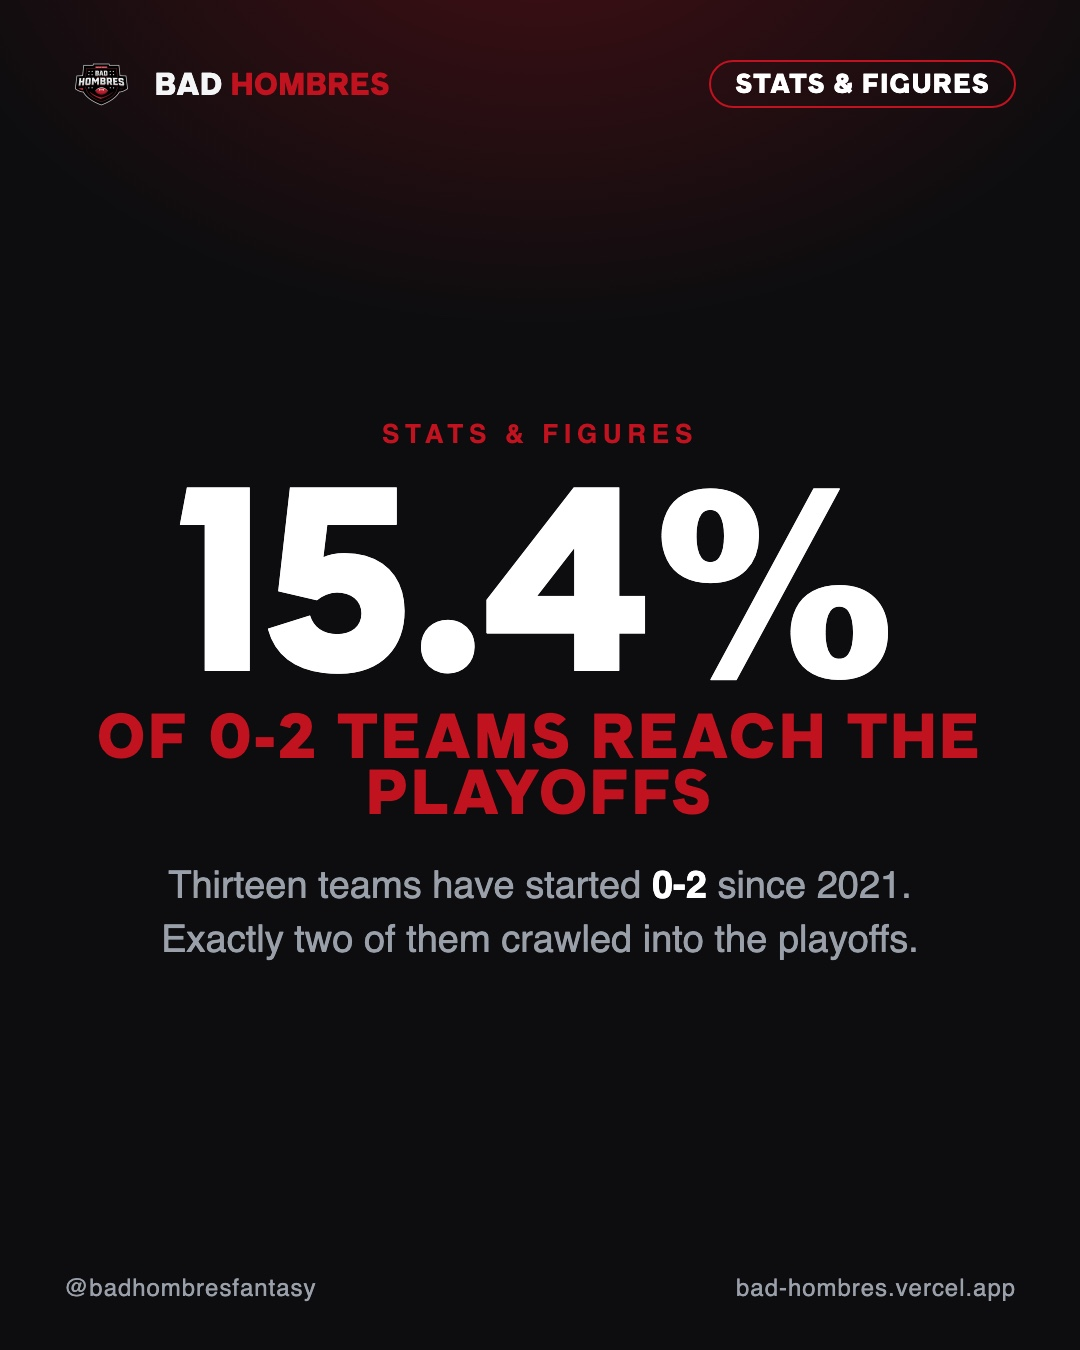
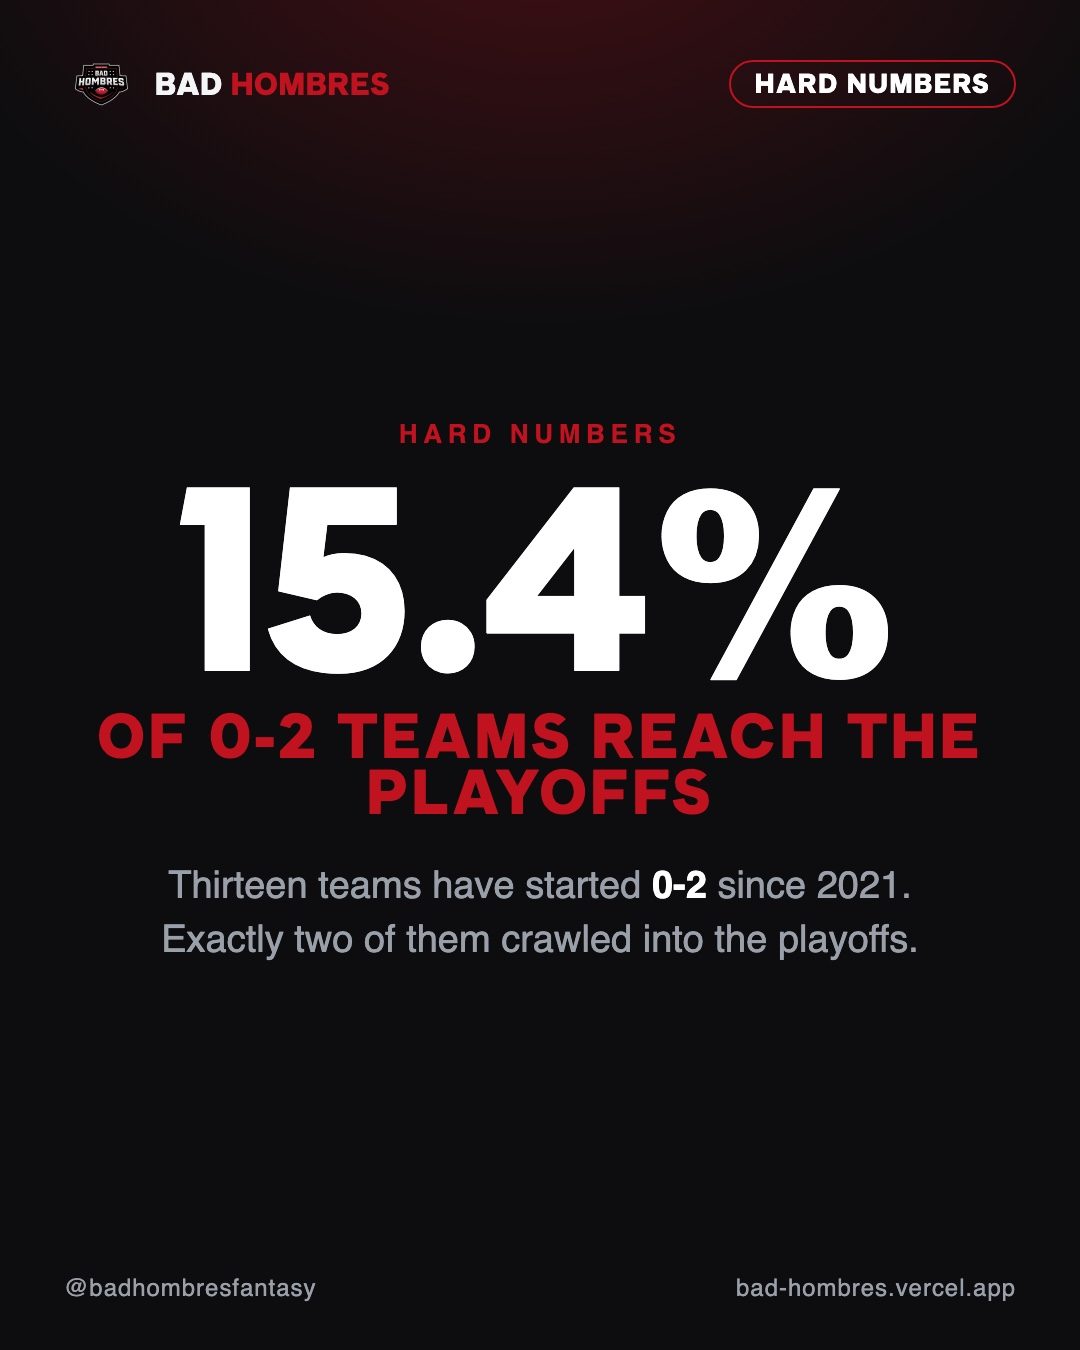
Brand the stats carousel: Hard Numbers
'Stats & Figures' could belong to any league. Hard Numbers sits with Money
Shots, Power Lines and the Bonus Board, and is the default badge for a stats
spec now.

Changed region(s): [[0.6722, 0.0311, 0.8556, 0.0933], [0.3361, 0.3111, 0.6417, 0.3422]]

diff --git a/scripts/social-render.py b/scripts/social-render.py
@@ -5,7 +5,7 @@
     scripts/social-render.py award              # -> social/week-N/award.jpg
     scripts/social-render.py matchups           # -> social/week-N/matchups-1..8.jpg
     scripts/social-render.py og                 # -> og.jpg, the site's link-preview card (1200x630)
-    scripts/social-render.py stats <spec.json>       # -> social/stats-<slug>/slide-N.jpg + caption.txt
+    scripts/social-render.py stats <spec.json>       # Hard Numbers -> social/stats-<slug>/slide-N.jpg
     scripts/social-render.py og-story <slug>    # -> story/<slug>/og.jpg, that story's link-preview card
     scripts/social-render.py recap --preview DIR   # any week state, written to DIR, marked PREVIEW
     scripts/social-render.py recap --preview DIR --data sample-week.json --season sample-season.json
@@ -192,7 +192,7 @@ CSS = """
 .bn .tm{font-size:30px;color:var(--muted);margin-top:6px}
 .bn .stat{margin-top:22px;font-size:32px}.bn .stat b{color:var(--gold)}
 
-/* Stats & Figures: a spec-driven carousel (see stats_slides) */
+/* Hard Numbers: the spec-driven stats carousel (see stats_slides) */
 .sf{flex:1;display:flex;flex-direction:column;justify-content:center}
 .sf.center{align-items:center;text-align:center}
 .sf .big{font-size:250px;line-height:.86;color:#fff;margin:18px 0 0}
@@ -360,13 +360,13 @@ def bonus_card(week, b, t):
         data_uri(art), face(top["who"]), esc(week), esc(b.get("nm", "")), esc(top["who"]), esc(t), stat))
 
 def stats_slides(spec):
-    """Slides for a Stats & Figures carousel, built from a spec file.
+    """Slides for a Hard Numbers carousel, built from a spec file.
 
     Each slide names a type — hook (one big number), cards (a face per row),
     chips (a crowd of names) or plain. All the words live in the spec; this
     only lays them out, so a new post is a new spec, not new code.
     """
-    label, out = spec.get("label", "Stats & Figures"), []
+    label, out = spec.get("label", "Hard Numbers"), []
     for sl in spec["slides"]:
         t = sl.get("type", "plain")
         if t == "hook":

diff --git a/scripts/ig-post.py b/scripts/ig-post.py
@@ -5,7 +5,7 @@
     scripts/ig-post.py recap            # carousel: results, Big Dick, Little Bitch, standings
     scripts/ig-post.py award            # single image: the week's bonus winner
     scripts/ig-post.py matchups         # Thursday carousel: slate, six matchups, Wes's lock
-    scripts/ig-post.py stats <slug>     # a Stats & Figures carousel from social/stats-<slug>/
+    scripts/ig-post.py stats <slug>     # a Hard Numbers carousel from social/stats-<slug>/
     DRY_RUN=1 scripts/ig-post.py recap  # every local check, no call to Instagram
     scripts/ig-post.py matchups --data snapshot.json   # deliberate test against a week snapshot;
                                                        # scheduled tasks never pass --data
@@ -102,7 +102,7 @@ def wait_ready(cid, token):
 
 # ---- the post --------------------------------------------------------------
 def material_stats(slug):
-    """A Stats & Figures carousel: slides and caption rendered from its spec."""
+    """A Hard Numbers carousel: slides and caption rendered from its spec."""
     d = ROOT / "social" / ("stats-%s" % slug)
     spec_path = d / "spec.json"
     if not spec_path.exists(): skip("no spec at %s" % spec_path.relative_to(ROOT))
